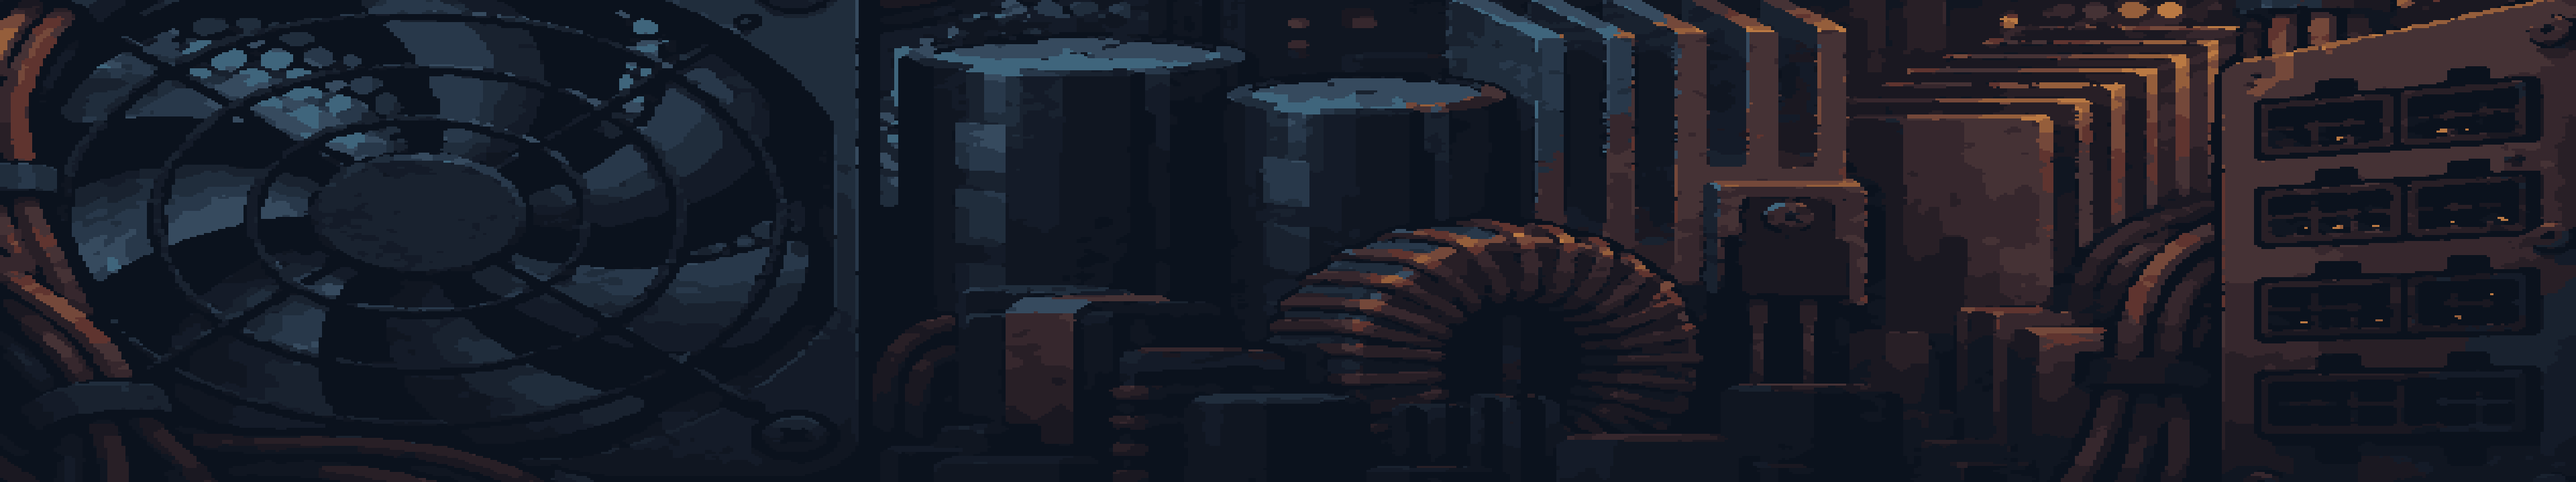
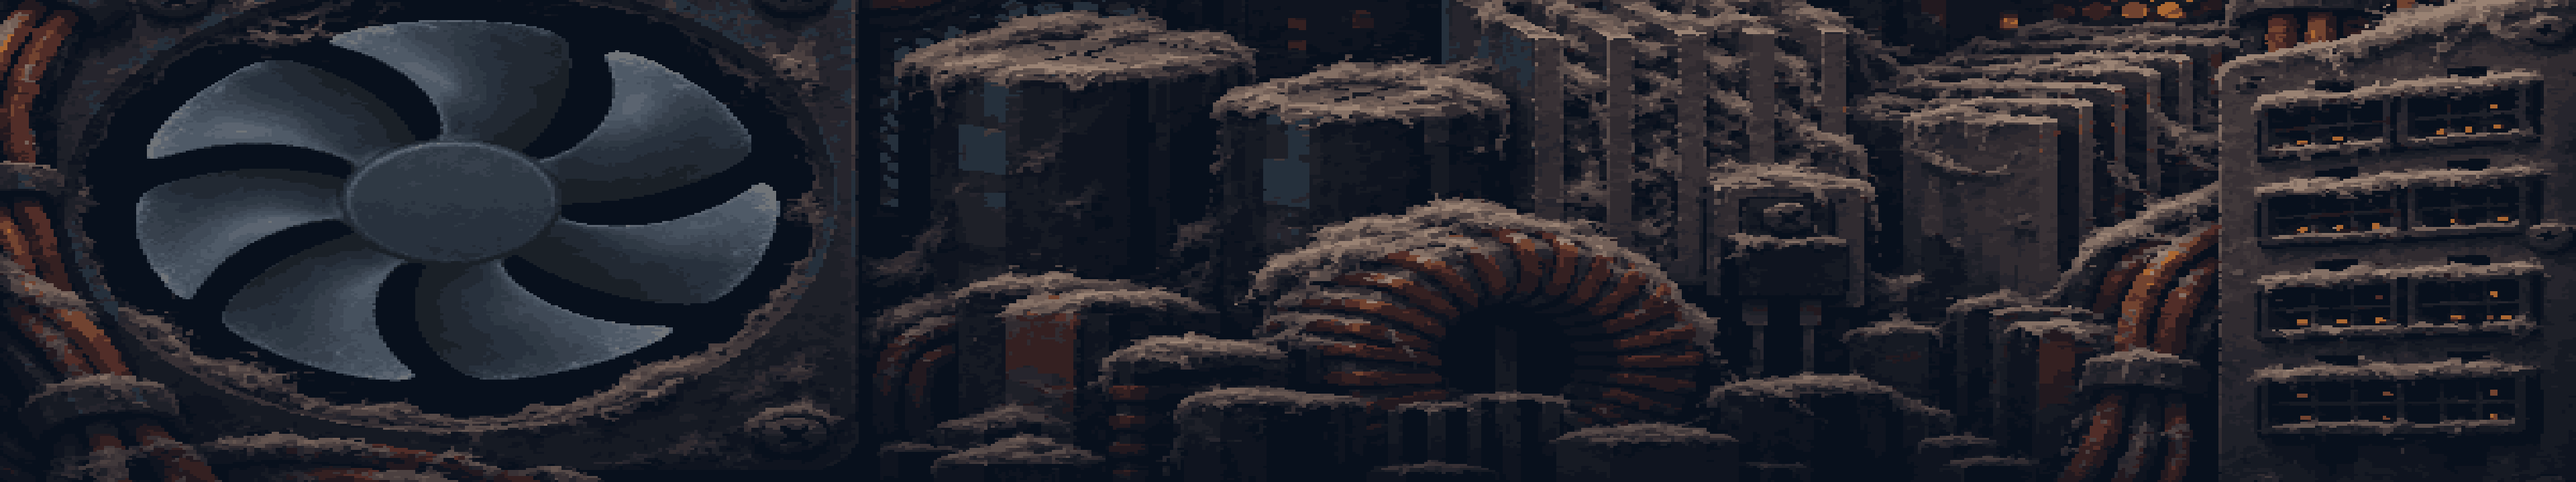
feat(level): 파워서플라이에 축적 먼지와 팬 회전 적용
바닥과 발판에 줄기형 시안 대신 납작한 회색 보풀을 배치하고 원경의 배선·콘덴서·방열판·단자에 먼지층을 가공한다. 고정 하우징과 회전자를 분리해 기존 패럴랙스 위에서 회전한다.

SDL 팬 영역과 정지 배경 대조 및 첫 레벨 주요 경로·순간이동·재시작 검사를 통과했다. 번들·경로 4개와 Tiled 픽셀 대조를 통과했다. 전체 회귀·Tiled GUI·사용자 플레이는 수행하지 않았다.

diff --git a/game/power_supply_map.py b/game/power_supply_map.py
@@ -43,6 +43,12 @@ class PowerSupplyMap(GameObject):
         self.parallax = background['parallax_x']
         self.background = load(background['runtime_image'])
         self.background_height = background['runtime_height']
+        rotor = background['rotor']
+        self.rotor = load(data['props'][rotor['prop']]['image'])
+        self.rotor_center = rotor['center_px']
+        self.rotor_diameter = rotor['diameter_px']
+        self.rotor_speed = rotor['degrees_per_second']
+        self.rotor_angle = 0.0
         self.items = [RenderItem(self._draw_background, draw_order=-5)]
         for obj in data['objects']:
             image = load(data['props'][obj['prop']]['image'])
@@ -67,6 +73,9 @@ class PowerSupplyMap(GameObject):
         left, top = self._point(x, y)
         return left, top - h, left + w, top
 
+    def update(self, dt):
+        self.rotor_angle = (self.rotor_angle + self.rotor_speed * dt) % 360
+
     def check_output(self, player):
         if self.reached_output or not player.hp or not player.grounded:
             return False
@@ -83,6 +92,11 @@ class PowerSupplyMap(GameObject):
         center = min(max(camera_x * (1 - self.parallax), right - half_width), left + half_width)
         bounds = center - half_width, camera_y - half_height, center + half_width, camera_y + half_height
         draw_image(self.background, transform, bounds, opacity)
+        rotor_x = bounds[0] + self.rotor_center[0] * scale
+        rotor_y = bounds[3] - self.rotor_center[1] * scale
+        radius = self.rotor_diameter * scale / 2
+        rotor_bounds = rotor_x - radius, rotor_y - radius, rotor_x + radius, rotor_y + radius
+        draw_image(self.rotor, transform, rotor_bounds, opacity, angle=self.rotor_angle)
 
     def _draw_socket(self, image, lit, bounds, transform, opacity):
         draw_image(lit if self.reached_output else image, transform, bounds, opacity)

diff --git a/tests/smoke/power_supply_smoke.py b/tests/smoke/power_supply_smoke.py
@@ -51,8 +51,13 @@ class PowerSupplySmoke(CombatSmoke):
         assert actor.collision_position == layout.player_start and actor.grounded
         assert self.level.enemy.collision_position == layout.enemy_start
         assert all(actor.can_place_center(point) for site in layout.charge_sites for point in site)
+        initial_angle = layout.rotor_angle
         self.screenshot = 'power-supply-intake'
-        yield .06
+        yield .24
+        angle_delta = (layout.rotor_angle - initial_angle) % 360
+        assert 0 < angle_delta < layout.rotor_speed
+        self.screenshot = 'power-supply-fan-rotated'
+        yield .04
         push_key(pico.SDLK_F6)
         push_key(pico.SDLK_F6, pico.SDL_KEYUP)
         yield from self.wait_until(lambda: self.engine.window_size == ALTERNATE_SIZE)

diff --git a/specs/021-power-supply-level/verification.md b/specs/021-power-supply-level/verification.md
@@ -27,3 +27,14 @@
 [SDL 흡기구](../../art/levels/power-supply/sdl/character-power-supply-intake.png) · [SDL 순간이동](../../art/levels/power-supply/sdl/character-power-supply-discharge.png) · [SDL 출력 단자](../../art/levels/power-supply/sdl/character-power-supply-output.png) · [HTML 미리보기](../../art/levels/power-supply/preview/preview.html) · [브라우저 경로 결과](../../art/levels/power-supply/preview/scene-snapshot.json) · [충돌 지도](../../art/levels/power-supply/nav/nav-debug.png) · [Tiled 맵](../../art/levels/power-supply/tiled-final/map.tmj)
 
 브라우저 검사는 평면 이동으로 도달 조건을 검사하고, 점프는 SDL에서 검사했다. Tiled GUI, 전체 회귀, 사용자 직접 플레이는 미실행이다. 이 레벨에서 출력부 도달로 구간을 마치며, 보스·패링·회복/저장·후속 구역 전환은 범위 밖이다.
+
+## 먼지와 흡기 팬 후속 검증
+
+2026-11-24 사용자 요청과 시안 피드백에 따른 FR-005 증분이다. 바닥·발판 끝에 높이 15~34px인 회색 보풀 4종을 49곳에 배치했다. 충돌·시작점·전하·도착 데이터를 이전 커밋과 비교해 일치하고 먼지 49곳이 비충돌임을 확인했다. 착지면의 금속 테두리와 출력 단자 표시등은 SDL 캡처로 대조했다.
+
+- 원경 편집과 회전자, 먼지 시트를 내장 ImageGen(`host_image`, `codex-image_gen`)으로 생성했다. 원경은 1774×887에서 720×360/20색으로, 회전자는 190×190/10색으로 변환했다. 먼지는 14색 다수결 축소와 이진 알파를 적용했다. 가공 스크립트에서 회전자 유효 반경 93px 이내와 중심 알파를 검사했다. 세 원본의 보관 도구 추산은 장당 USD 0.00이다. [원경 생성 기록](../../art/levels/power-supply/dust-revision/background-source/job.json) · [회전자 생성 기록](../../art/levels/power-supply/dust-revision/rotor-source/job.json) · [최종 먼지 생성 기록](../../art/levels/power-supply/dust-revision/dust-bunny-source/job.json) · [프롬프트와 가공 스크립트](../../art/levels/power-supply/dust-revision/)
+- 줄기가 길어 풀처럼 보인 작업 중 솜털 시안의 추출 경고는 `edge_fringe`, value `0.0941`, threshold `0.02`였다. 파일은 `sparse/prop.png`, `fan/prop.png`, `ridge/prop.png`, `tall/prop.png`였다. 솜털 시안 전체를 낮은 회색 보풀로 교체했다. 새 원화에 `extract_prop_pack.py --threshold 110 --edge-threshold 172 --despill-radius 3`을 적용해 4종이 통과했고 경고는 0개였다. [시안 추출 기록](../../art/levels/power-supply/dust-revision/lint-pack/prop-pack.json) · [최종 추출 기록](../../art/levels/power-supply/dust-revision/dust-bunny-pack/prop-pack.json)
+- `.venv\Scripts\python.exe -m tests.smoke.power_supply_smoke --output-dir art/levels/power-supply/dust-revision/sdl-final` 통과. 흡기구 정지 시점 두 장에서 팬 영역 143,740픽셀이 바뀌고 고정 원경 비교 영역의 픽셀은 모두 일치했다. 방열판 통과와 역방향 착지, 상부 발판, 순간이동, 출력 단자, R과 F6도 확인했다. [팬 실제 재생](../../art/levels/power-supply/dust-revision/fan-in-game.gif) · [전력 변환부](../../art/levels/power-supply/dust-revision/sdl-final/character-power-supply-gallery.png) · [출력 단자](../../art/levels/power-supply/dust-revision/sdl-final/character-power-supply-output.png)
+- `map_bundle.py validate`, `map_nav.py check`, `build_scene_preview.py --verify --strict`, `export_tiled.py export`를 위 명령과 같은 도구로 최신 번들에 실행했다. 브라우저 경로 4개 통과, 경고 0개, Tiled 재렌더 차이 0픽셀이다. 브라우저와 Tiled의 원경은 팬 한 자세를 합성한 정적 이미지다. [번들](../../assets/levels/power-supply/map.json) · [브라우저 기록](../../art/levels/power-supply/dust-revision/preview-final/preview-qa.json) · [Tiled 기록](../../art/levels/power-supply/dust-revision/tiled-final/export-report.json)
+
+전체 회귀, Tiled GUI, 사용자 직접 플레이는 미실행이다. GIF는 실제 SDL 화면 100프레임을 20fps로 담았다.

diff --git a/specs/021-power-supply-level/spec.md b/specs/021-power-supply-level/spec.md
@@ -28,6 +28,7 @@
 - **FR-002** 플랫폼·충돌·환경 전하·출발/도착 배치를 데이터에 기록한다.
 - **FR-003** 기존 플레이 조작을 재사용하고 출력 단자 도착을 표시한다.
 - **FR-004** 원거리 배경·연결 가능한 구조물·랜드마크·가까운 차폐를 분리한다.
+- **FR-005** 낮게 뭉친 먼지를 바닥·발판 가장자리와 원경 부품에 표현하고 흡기 팬 날개를 고정 프레임 안에서 회전시킨다.
 
 ### Constraints
 
@@ -38,5 +39,9 @@ Python + Pico2D, 픽셀 아트, 기존 조작과 충돌 API를 사용한다.
 맵 검증기, 브라우저 경로 검사, Pico2D의 실제 점프·도착·재시작과 화면 시야를 확인한다.
 
 ## Assumptions & Open Decisions
+
+## 먼지와 팬 연출
+
+2026-11-24 후속 요청으로 바닥과 발판 가장자리에 먼지를 군데군데 배치한다. 사용자 피드백에 따라 긴 줄기 실루엣을 낮고 납작한 회색 보풀과 먼지 띠로 교체한다. 원경의 배선·콘덴서·방열판·출력 단자에는 오래 쌓인 먼지를 그린다. 흡기구의 고정 프레임 안에서 날개가 회전한다. 기본 실행에서 확인할 수 있어야 하며 표면 충돌과 전하 위치는 기존 맵 데이터를 사용한다.
 
 이 레벨의 도착은 출력부 도달로 표시한다. 분량, 적의 배치, 카메라 수치는 이번 제작의 기술 기본값이다.

diff --git a/docs/progress.md b/docs/progress.md
@@ -4,6 +4,8 @@
 
 ## 현재 단계
 
+- **파워서플라이 먼지·흡기 팬:** 2026-11-24 요청과 사용자 피드백으로 바닥·발판의 긴 줄기형 시안을 낮은 보풀과 먼지 띠로 교체했다. 원경 부품 표면의 축적 먼지와 흡기 팬 회전을 적용했다. [검증](../specs/021-power-supply-level/verification.md#먼지와-흡기-팬-후속-검증).
+
 - **첫 레벨 전원 구역:** 2026-11-24 사용자 요청으로 컴퓨터 파워서플라이 내부를 기본 실행에 연결하고 환경 원화에 hi-bit 가공을 적용했다. 흡기구, 방열판, 코일·콘덴서, 출력 단자를 배치했다. [명세](../specs/021-power-supply-level/spec.md) · [계획](../specs/021-power-supply-level/plan.md) · [검증](../specs/021-power-supply-level/verification.md).
 
 - **지상 기본 공격 분기 방전 초승달:** 2026-11-24 사용자 요청으로 선택한 효과를 기본 레벨과 훈련장이 공유하는 지상 공격 시트에 적용했다. 효과가 들어가는 6셀을 교체했고, 실제 기본 레벨 SDL 창에서 좌우 시작·정점·소멸을 확인했다. 사용자 직접 플레이 평가는 남아 있다. [합성 미리보기](../art/warden/ground-crescent-discharge-refined/preview-dark-quarter.gif) · [검증](../specs/020-combat-reimplementation/verification.md#지상-기본-공격-분기-방전-초승달).

diff --git a/docs/game-design.md b/docs/game-design.md
@@ -46,6 +46,8 @@
 
 `main.py`가 전원 구역을 열고, `main.py --training`으로 플랫폼 훈련장을 실행한다. 원경·소품·발판의 hi-bit 에셋과 충돌 배치는 [맵 데이터](../assets/levels/power-supply/map.json), 검사 결과는 [검증 기록](../specs/021-power-supply-level/verification.md)을 참조한다.
 
+오래 방치된 내부는 낮게 뭉친 회색 보풀, 발판 끝의 얇은 먼지 띠, 원경 배선과 부품 위에 두껍게 쌓인 먼지로 표현한다. 흡기 팬은 고정 하우징 안에서 5초에 한 바퀴 돈다.
+
 ## 미정 설계
 
 전하 순간이동을 통한 빠른 전투 경험은 확정했다. 순간이동 상승 관성의 시험값·전체 전투 밸런스, 전체 진행·보상 반복 구조, 승패 규칙과 전체 제작 범위는 미정이다. 코드나 에셋 제작을 위해 임의의 값을 확정하지 않는다.

diff --git a/specs/021-power-supply-level/plan.md b/specs/021-power-supply-level/plan.md
@@ -19,3 +19,7 @@
 ## Validation
 
 번들·웹 경로·Tiled 내보내기와 SDL 런타임 검사를 수행한다. 브라우저 미리보기는 그리기 순서를 유지해 도형 레이어를 한 층으로 합친 사본을 사용한다. 브라우저의 평면 보행과 Pico2D의 점프 검증을 구분한다.
+
+## 먼지와 팬 연출
+
+원화 편집으로 원경의 팬 날개를 비우고 표면별 먼지를 추가한다. 투명 먼지 시트를 hi-bit로 가공하고 바닥·발판 끝에 장식 오브젝트로 배치한다. 팬 회전자는 빈 하우징의 픽셀 좌표에 중심과 반지름을 맞추고 원경과 같은 패럴랙스 좌표에서 그린다. 실제 SDL에서 서로 다른 시점의 팬 영역과 고정 프레임을 대조하고 흡기구·전력 변환부·출력 단자 화면의 가독성을 확인한다.

diff --git a/specs/021-power-supply-level/tasks.md b/specs/021-power-supply-level/tasks.md
@@ -17,3 +17,9 @@
 ## Phase 4: Polish & Cross-Cutting Concerns
 
 - [x] T006 실제 창·게임 경로 검증 및 기준 갱신 (`verification.md`, `docs/`)
+
+## 후속 증분
+
+- [x] T007 먼지 원경·솜털·팬 회전자 생성 및 hi-bit 가공 (`art/levels/power-supply/dust-revision/`)
+- [x] T008 먼지 배치와 흡기 팬 회전 통합 (`assets/levels/power-supply/map.json`, `game/power_supply_map.py`)
+- [x] T009 맵·실제 SDL 검증 및 기준 갱신 (`verification.md`, `docs/`)
